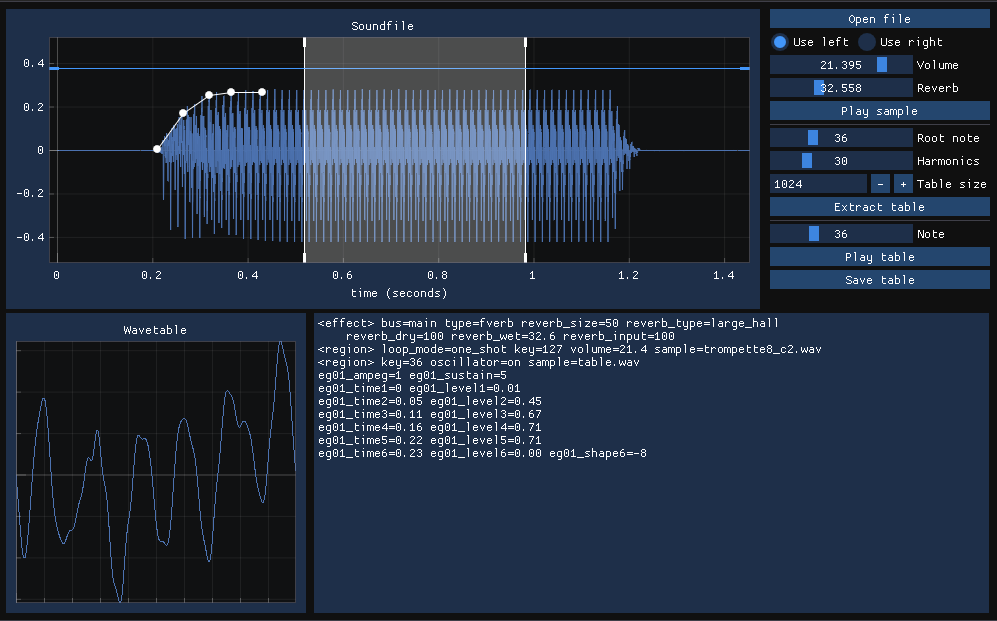
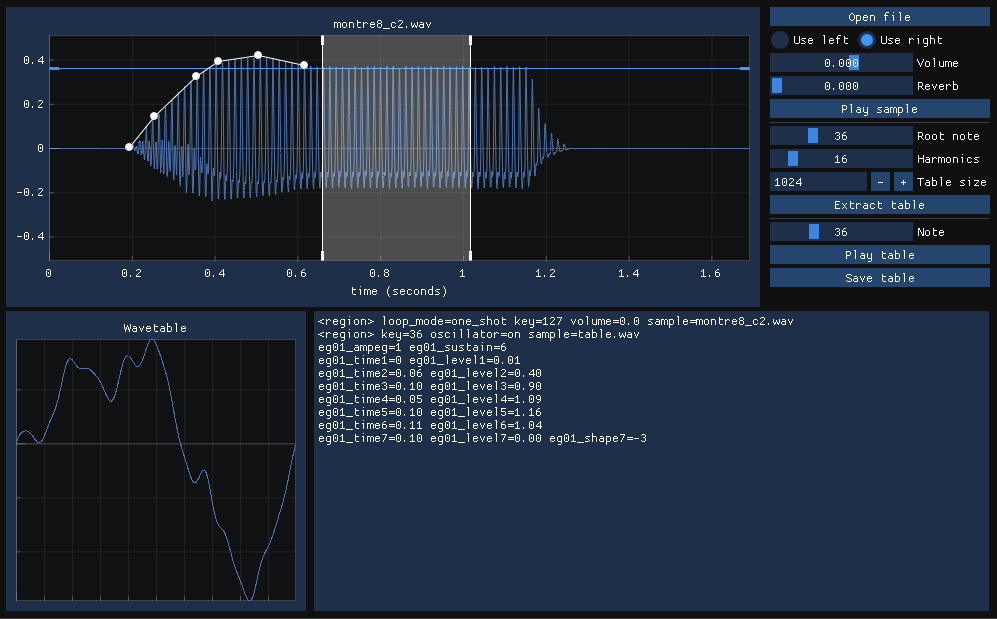
Small updates

diff --git a/src/main.cpp b/src/main.cpp
@@ -126,11 +126,11 @@ static void rebuildSfzFile()
     sfzFile += fmt::format("eg01_time1=0 eg01_level1={:.2f}", points[0].y / sustainLevel);
     for (size_t i = 1, n = points.size(); i < n; ++i) {
         sfzFile += fmt::format("\neg01_time{0}={1:.2f} eg01_level{0}={2:.2f}",
-            i + 1, points[i].x - start, points[i].y / sustainLevel);
+            i + 1, points[i].x - points[i - 1].x, points[i].y / sustainLevel);
     }
     if (nonzeroEnd) {
-        sfzFile += fmt::format("\neg01_time{0}={1:.2f} eg01_level{0}={2:.2f} eg01_shape{0}=-8",
-                points.size() + 1, points.back().x - start + 0.01f, 0.0f);
+        sfzFile += fmt::format("\neg01_time{0}={1:.2f} eg01_level{0}={2:.2f} eg01_shape{0}=-3",
+                points.size() + 1, 0.1f, 0.0f);
     }
 }
 
@@ -143,7 +143,7 @@ static void drawPlot()
         ImPlot::SetNextPlotLimitsX(0.0f, xMax, ImGuiCond_Always);
     }
 
-    if (ImPlot::BeginPlot("Soundfile", "time (seconds)", nullptr,
+    if (ImPlot::BeginPlot(filename.c_str(), "time (seconds)", nullptr,
             ImVec2(-1, 0), ImPlotFlags_AntiAliased)) {
         ImPlot::PlotLine("", &plot[0].x, &plot[0].y, 
             static_cast<int>(plot.size()), 0, sizeof(ImPlotPoint));
